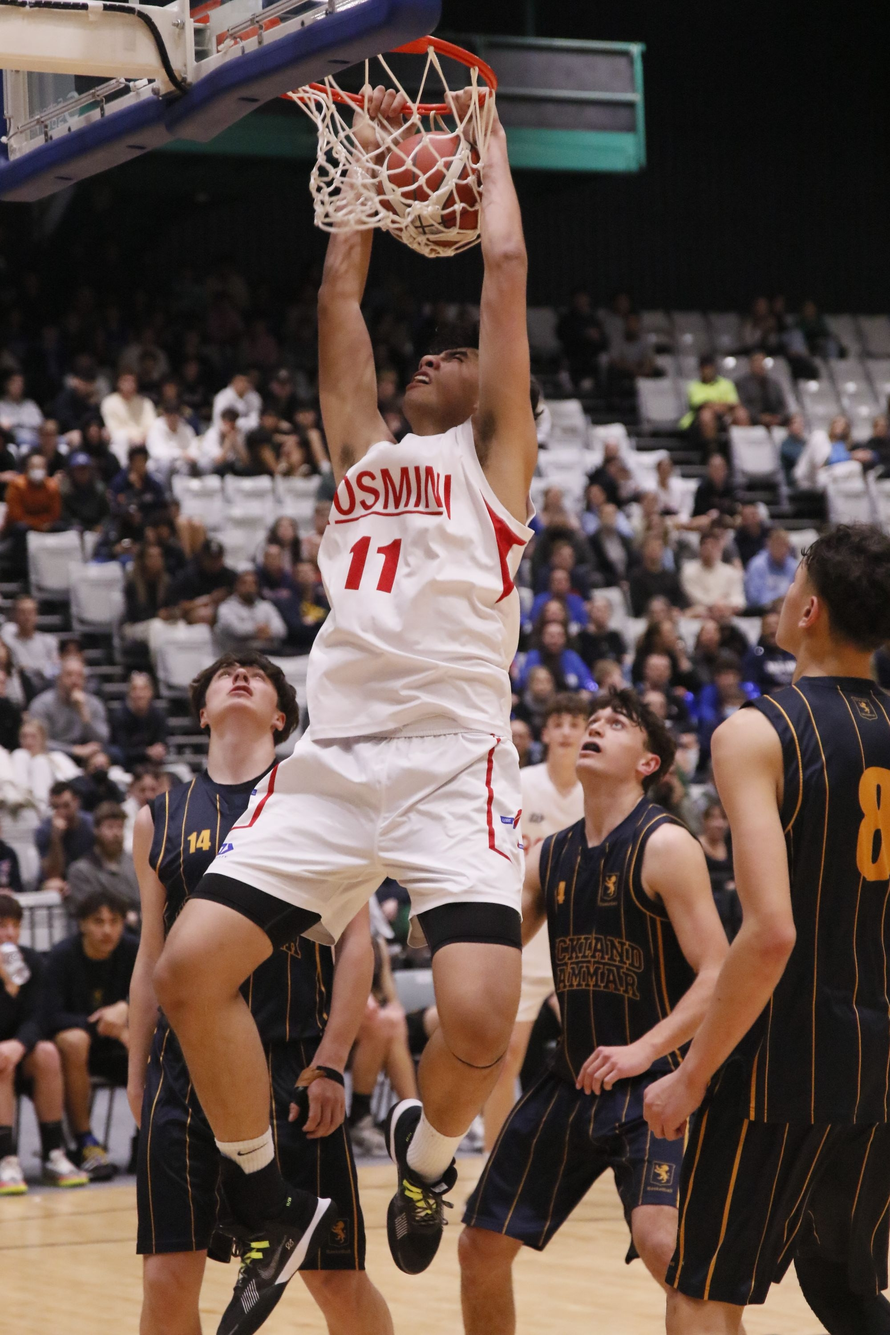
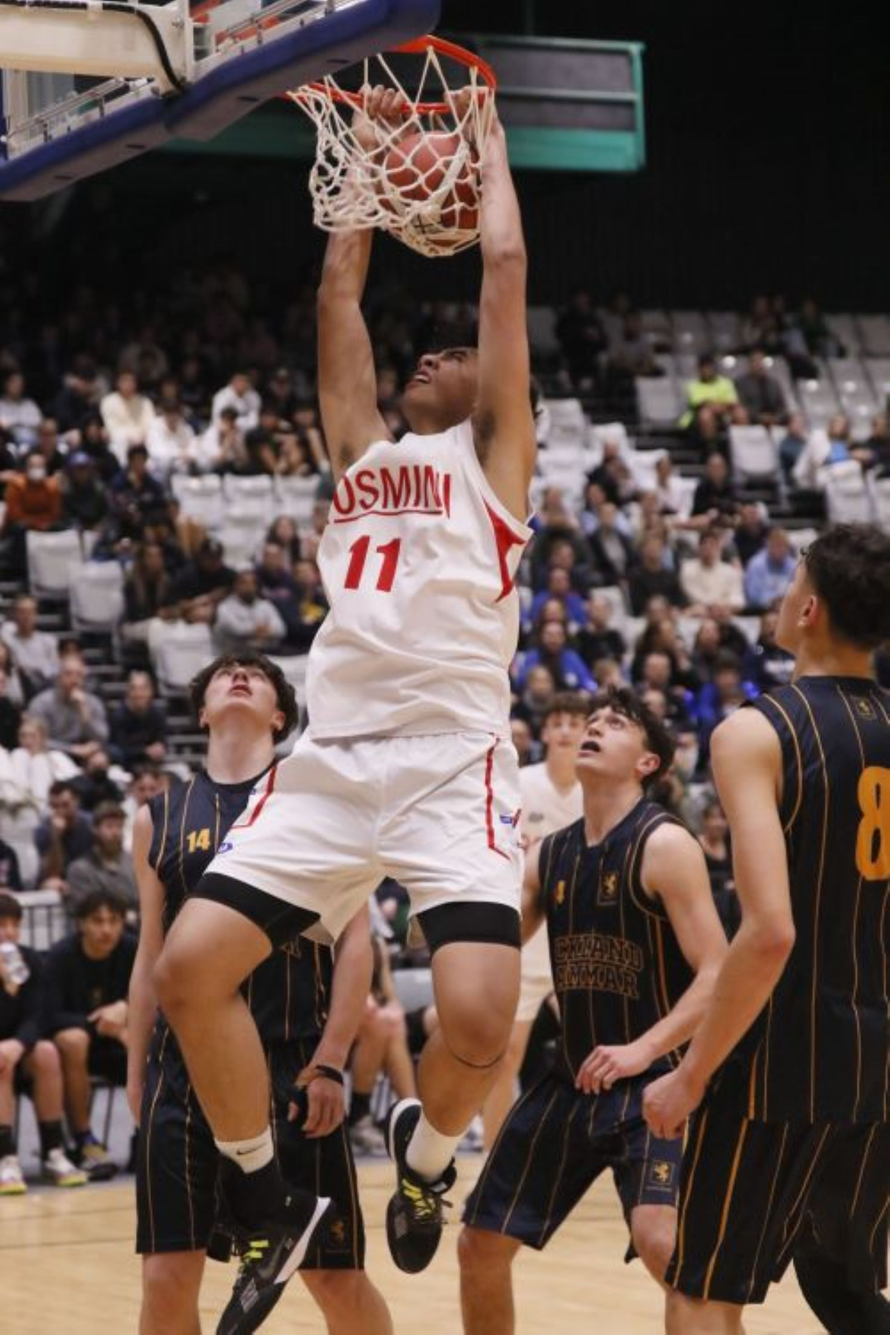
idontwhawhatiadded
idontknow:(

diff --git a/Prettycool/sport.html b/Prettycool/sport.html
@@ -46,44 +46,53 @@
                     <div class="groupnumber1">
                         <div class="sportthingie">
                             <h1 class="text">Rugby</h1>
-                            <img src="Student Assessment Resource/Sports/rugby.jpg" alt="Rugby" class="imgBETTER">
+                            <img src="Student Assessment Resource/Sports/rugby.jpg" alt="Rugby" class="imgBETTER"
+                            style="width: 300px; height: 337px; object-fit: cover; object-position: 50% 0;">
                         </div>
                         <div class="sportthingie">
                             <h1 class="text">Cricket</h1>
-                            <img src="Student Assessment Resource/Sports/criket.jpg" alt="Cricket" class="imgBETTER">
+                            <img src="Student Assessment Resource/Sports/criket.jpg" alt="Cricket" class="imgBETTER"
+                            style="width: 300px; height: 337px; object-fit: cover; object-position: 50% 0;">
                         </div>
                         <div class="sportthingie">
                             <h1 class="text">Hockey</h1>
-                            <img src="Student Assessment Resource/Sports/hockey.jpg" alt="Hockey" class="imgBETTER">
+                            <img src="Student Assessment Resource/Sports/hockey.jpg" alt="Hockey" class="imgBETTER"
+                            style="width: 300px; height: 337px; object-fit: cover; object-position: 50% 0;">
                         </div>
                     </div>
                     <div class="groupnumber2">
                         <div class="sportthingie">
                             <h1 class="text">Lacrose</h1>
-                            <img src="Student Assessment Resource/Sports/lacrose.jpg" alt="Lacrose" class="imgBETTER">
+                            <img src="Student Assessment Resource/Sports/lacrose.jpg" alt="Lacrose" class="imgBETTER"
+                            style="width: 300px; height: 337px; object-fit: cover; object-position: 50% 0;">
                         </div>
                         <div class="sportthingie">
-                            <h1 class="text">Basketball</h1>
-                            <img src="Student Assessment Resource/Sports/basketball.jpg" alt="Basketball" class="imgBETTER">
+                            <h1 class="text">Track</h1>
+                            <img src="Student Assessment Resource/Sports/track.jpg" alt="Track" class="imgBETTER"
+                            style="width: 300px; height: 337px; object-fit: cover; object-position: 50% 0;">
                         </div>
                         
                         <div class="sportthingie">
                             <h1 class="text">Snowboard</h1>
-                            <img src="Student Assessment Resource/Sports/snowboard.jpg" alt="Snowboard" class="imgBETTER">
+                            <img src="Student Assessment Resource/Sports/snowboard.jpg" alt="Snowboard" class="imgBETTER"
+                            style="width: 300px; height: 337px; object-fit: cover; object-position: 50% 0;">
                         </div>
                     </div>
                     <div class="groupnumber3">
                         <div class="sportthingie">
                             <h1 class="text">Tennis</h1>
-                            <img src="Student Assessment Resource/Sports/tennis.jpg" alt="Tennis" class="imgBETTER">
+                            <img src="Student Assessment Resource/Sports/tennis.jpg" alt="Tennis" class="imgBETTER"
+                            style="width: 300px; height: 337px; object-fit: cover; object-position: 50% 0;">
                        </div>
-                       <div class="sportthingie">
-                            <h1 class="text">Track</h1>
-                            <img src="Student Assessment Resource/Sports/track.jpg" alt="Track" class="imgBETTER">
+                       
+                        <div class="sportthingie">
+                            <h1 class="text">Basketball</h1>
+                            <img src="Student Assessment Resource/Sports/basketball.jpg" alt="Basketball" class="imgBetter2">
                         </div>
                         <div class="sportthingie">
                             <h1 class="text">Water polo</h1>
-                            <img src="Student Assessment Resource/Sports/water polo.jpg" alt="Water Polo" class="imgBETTER">
+                            <img src="Student Assessment Resource/Sports/water polo.jpg" alt="Water Polo" class="imgBETTER"
+                            style="width: 300px; height: 337px; object-fit: cover; object-position: 50% 0;">
                         </div>
                     </div>
                     

diff --git a/Prettycool/index.html b/Prettycool/index.html
@@ -71,16 +71,8 @@
                     </button>
                   </div>
                   <div class="extraphone">
-                    
-                    <div class="MOTD">
-                        <h1>
-                            Message of the Day: <br>
-                            "Please work" - Every student right now
-                        </h1>
-                    </div>
-
                     <div class="aboutus">
-                        <h1 class="abouttext"> About us</h1>
+                        <h1 class="abouttext lmao"> About us</h1>
                         <h2 class="abouttext"> Rosmini College is a Catholic Boys’ School founded by the Rosminian order to provide a Catholic education to young men on Auckland’s North Shore. We aim to shape them into well-rounded young men ready to leave school who are able to make a positive contribution to society and are empowered to serve others by living out the founder’s maxims.
                             Our Mission: Rosmini College supports and develops well-rounded young men while keeping true to the maxims of Antonio Rosmini.  A holistic education in the Rosminian tradition that fosters a genuine encounter with Christ.
                             Our Vision: Christ-centred young men who have the values, attitudes, knowledge and skills to fulfil their life and be empowered to serve others.
@@ -89,6 +81,13 @@
                             Treaty of Waitangi: Rosmini College is committed to the principles of the Treaty of Waitangi and actively supports and encourages the achievement of its Maori pupils and fosters Maori culture.
                             Special Character: Rosmini College is a learning community that requires each student to pursue his fullest potential in spiritual, academic, social, cultural and co-curricular pursuits. The school will equip each student with the desire to keep the Law of Christ;  
                             “Love the Lord your God with your whole heart and your neighbour as yourself.”</h2>
+                    </div>
+                    <div class="MOTD">
+                        <h1>
+                            Message of the Day: <br>
+                            "Please work" - Every student right now <br>
+                        </h1>
+                        
                     </div>
                   </div>
             </body>

diff --git a/Prettycool/css/css.css b/Prettycool/css/css.css
@@ -10,6 +10,10 @@
 .Adress{
     color: white;
 }
+.lmao{
+     display: flex;
+     justify-content: center;
+}
 .logoplease{
     text-align: center;
     width: 50%;
@@ -46,7 +50,7 @@
     border: 4px solid black;
     padding: 10px;
     margin: 0 auto;
-    background-color: rgb(0, 162, 255);  
+    background-color: rgb(0, 174, 255); 
     text-align: center; 
 }
 .MYnavbar a:hover{
@@ -122,12 +126,20 @@ footer a{
     display: flex;
     flex-direction: row;
 }
-
+.imgBetter2{
+    width: 45%;
+    height: 90%;
+    border: solid 5px black;
+    border-radius: 5px;
+}
 .imgBETTER {
     width: 90%;
     height: 90%;
     border: solid 5px black;
     border-radius: 5px;
+    object-fit: cover;
+    object-position: 50% 0;
+
 }
 
 .text {
